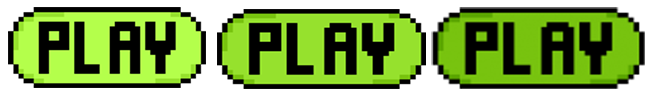
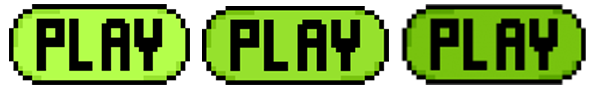
stl
stl

diff --git a/js/game.js b/js/game.js
@@ -10,7 +10,7 @@ function preload() {
     game.load.image('titlescreenbackground', 'assets/stl_bgts.png');
     game.load.image('titlescreentext', 'assets/stl_tstxt.png');
 
-    game.load.spritesheet('titlescreenplaybutton', 'assets/stl_ss_pbts.png', 216, 70);
+    game.load.spritesheet('titlescreenplaybutton', 'assets/stl_ss_pbts.png', 197, 92);
 }
 
 function create() {
